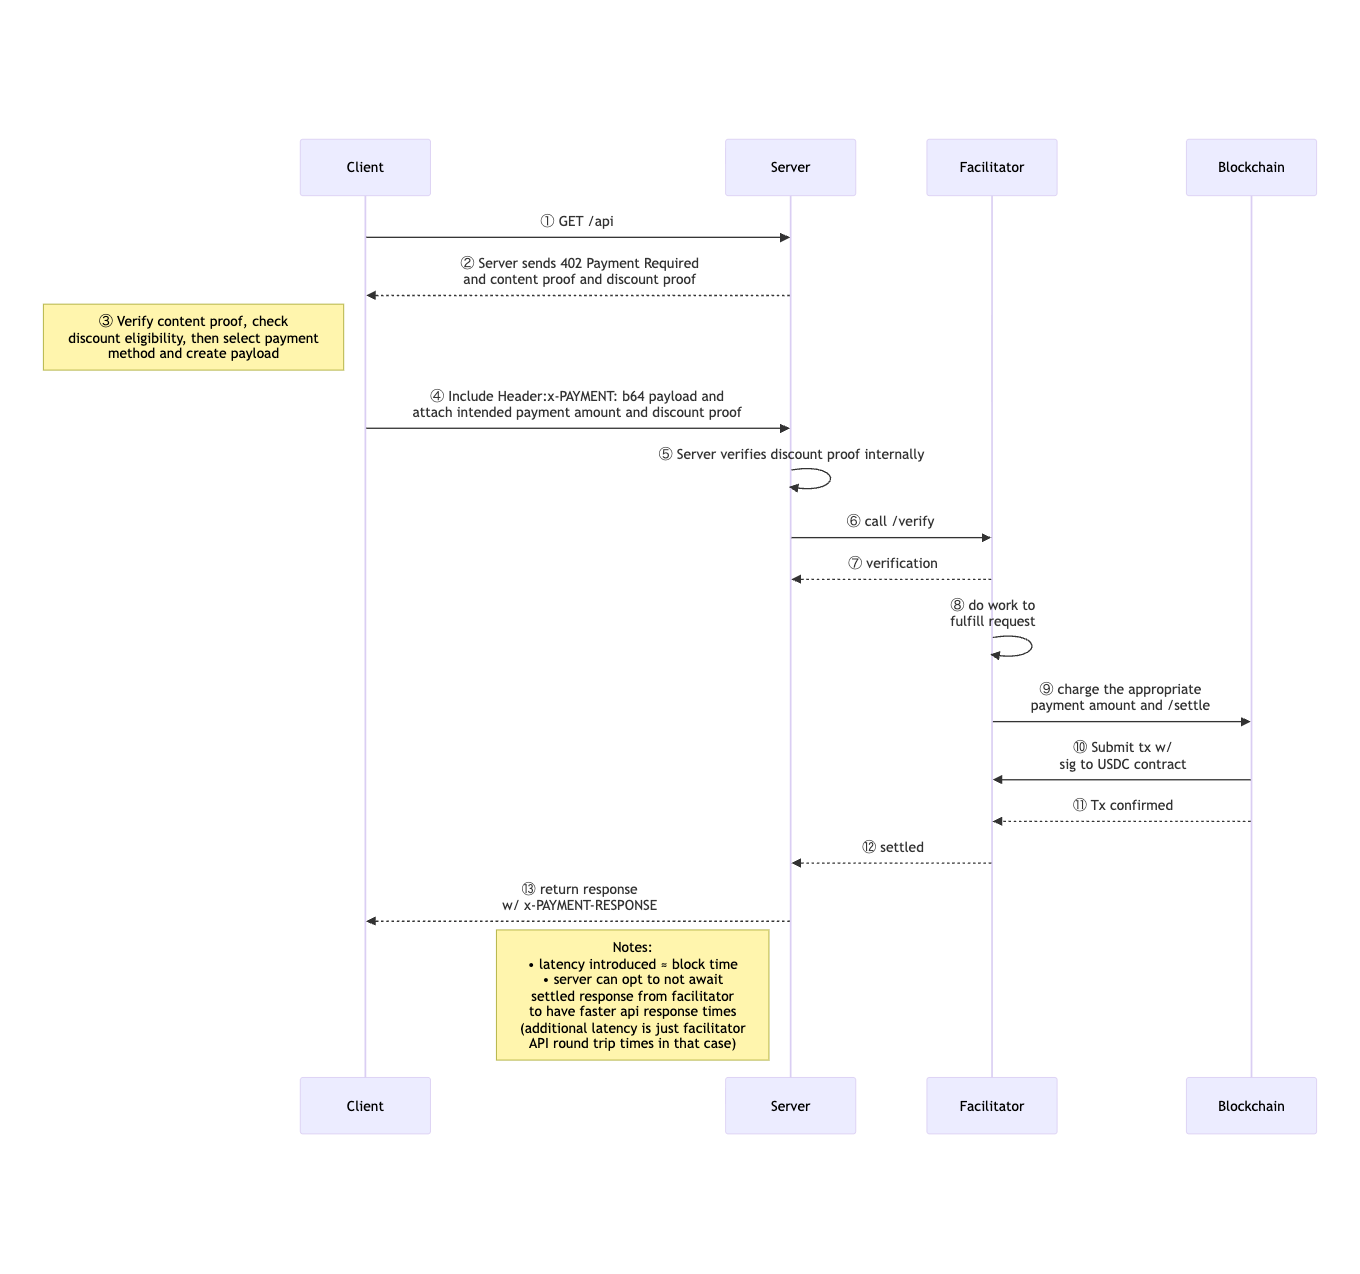
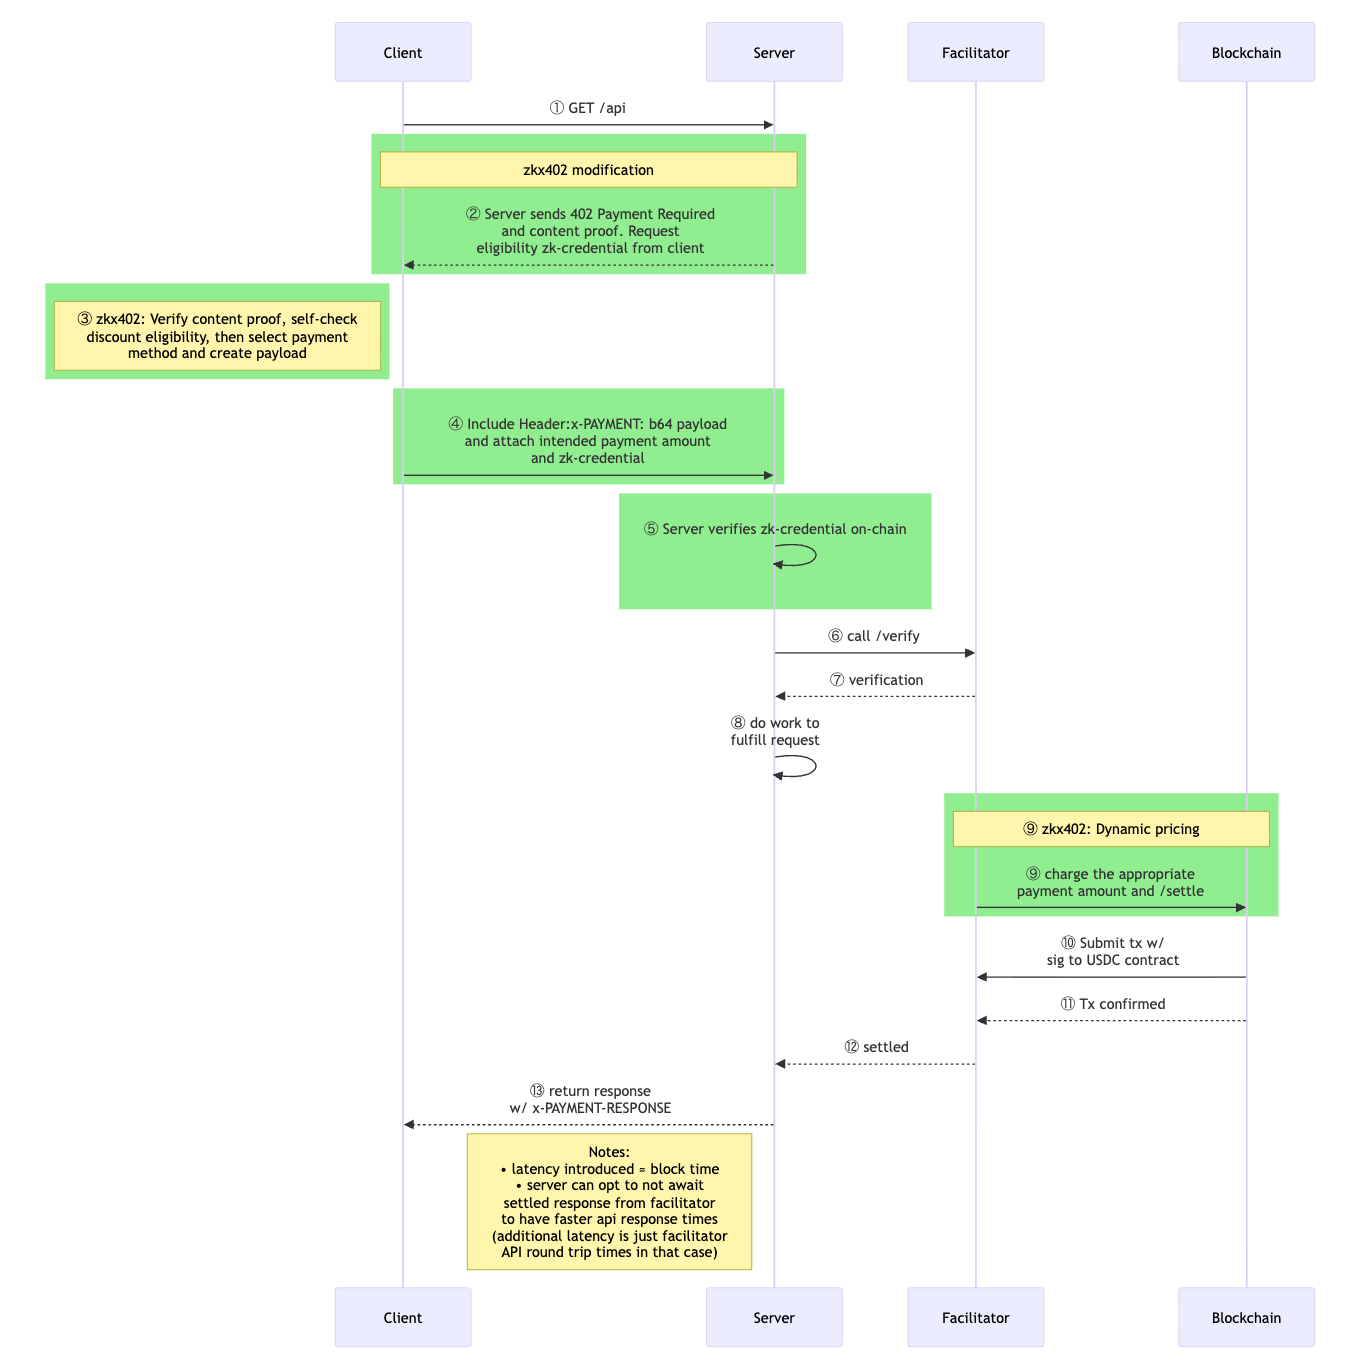
Modified README and update the zkx402 flow

diff --git a/README.md b/README.md
@@ -1,14 +1,14 @@
-# ETHGlobal Buenos Aires 2025 zkx402 - Proof of Leak
+# ETHGlobal Buenos Aires 2025 zkx402 - x402 protocol extension
 
-# Proof of Leak
+# zkx402 - Proof of Leak
 Verifiable leaks. Anonymous monetization. AI-native access.
 
 ## Summary
-ProofOfLeak is the first marketplace that lets whistleblowers securely sell sensitive private data to journalists and AI agents with cryptographic guarantees of authenticity, optional identity verification for discounted pricing, and native x402 payments so AI agents can autonomously buy leaks on behalf of their humans.
+zkx402 is the extension that incorporates privacy into x402 protocol. ProofOfLeak is the first place that utilizes zkx402 extension and lets whistleblowers securely sell sensitive private data to journalists and AI agents with cryptographic guarantees of authenticity, optional identity verification for discounted pricing, and native x402 payments so AI agents can autonomously buy leaks on behalf of their humans.
 
 Whistleblowers get paid without ever revealing their identity.
-Journalists get cheaper access by proving they work for reputable outlets.
-AI agents inherit discounts via ERC-8004-style attestations and pay autonomously via x402 on Base.
+Journalists get cheaper access by proving they are human and work for reputable outlets.
+Journalist-controlled AI agents pay autonomously via x402 on Base to access private sensitive data.
 
 We’re SecureDrop + ZK provenance + dynamic pricing + AI agent economy in one protocol.
 
@@ -18,22 +18,7 @@ We’re SecureDrop + ZK provenance + dynamic pricing + AI agent economy in one p
 - Variable pricing based on verified identity (50% discount for verified parties)
 - Eligibility proven via zkproofs, no trusted third party needed
   - Human journalists → Self.xyz, Worldcoin, zkPassport, or vLayer org proofs (NY Times, The Economist, etc.)
-  - AI agents → ERC-8004-style attestation delegated from verified journalist
-  - Unverified → pay full price ($0.02 instead of $0.01)
-
-### Producers (Whistleblowers)
-- ZK-verified metadata & content provenance (vlayer ZK Email / zkTLS)
-- Prove insider status, document authenticity, creation timestamp without revealing identity
-- Optional partial identity reveal (e.g. date of birth + country via Self.xyz if journalist already knows who the source is)
-- Get paid instantly in USDC on Base while staying fully anonymous
-
-This creates the missing economic layer for truth.
-
-### Consumers (Journalists & AI Agents)
-- Variable pricing based on verified identity (50% discount for verified parties)
-- Eligibility proven via zkproofs, no trusted third party needed
-  - Human journalists → Self.xyz, Worldcoin, zkPassport, or vLayer org proofs (NY Times, The Economist, etc.)
-  - AI agents → ERC-8004-style attestation delegated from verified journalist
+  - AI agents get the proof of humanity from the human to be eligible for the discounted price
   - Unverified → pay full price ($0.02 instead of $0.01)
 
 ### Producers (Whistleblowers)
@@ -97,7 +82,6 @@ This creates the missing economic layer for truth.
 ## Future Work
 How the project can be built further:
 - Build MCP server for the leaked contents so that AI agents can consume it
--
 
 ## Deployed contract (all verified)
 ### Base Sepolia testnet (chainID: 84532)
